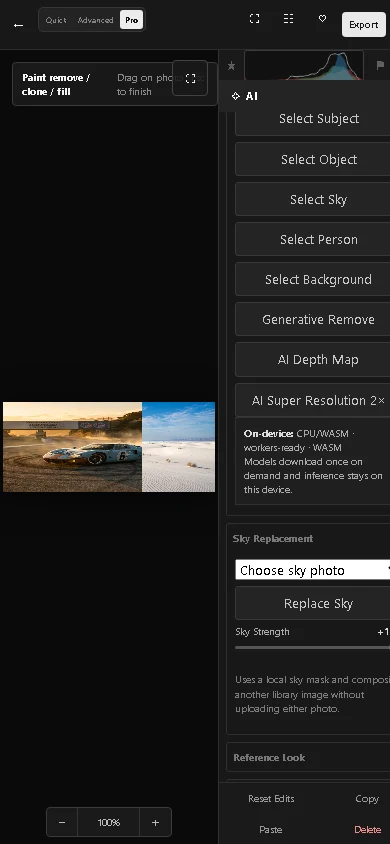
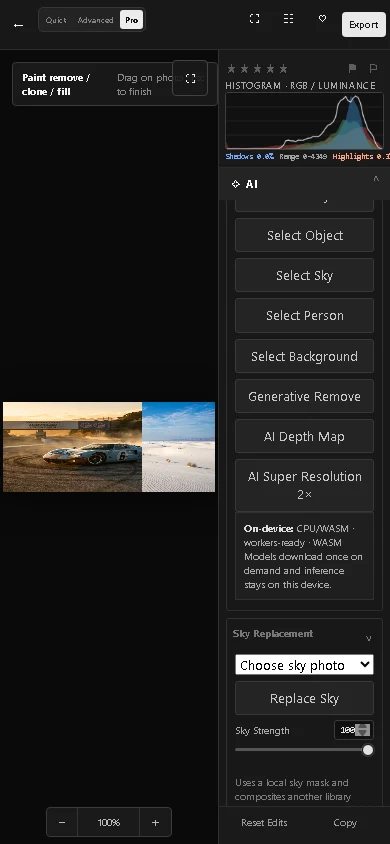
ui: improve histogram and precision controls

diff --git a/editor.js b/editor.js
@@ -29,7 +29,7 @@ function bindAccordions(){$$('.accordion-head').forEach(h=>h.onclick=()=>{const 
 function changedSummary(defs,obj=currentPhoto?.edits||{}){const n=defs.filter(([k])=>obj[k]!==undefined&&obj[k]!==defaultEdits()[k]).length;return n?`${n} adjusted`:''}
 function syncEditorMeta(){if(!currentPhoto)return;$('#editorName').textContent=currentPhoto.name;$('#editorMeta').textContent=`${currentPhoto.width||'—'} × ${currentPhoto.height||'—'} · ${fmtBytes(currentPhoto.size)}`;$('#favoriteBtn').textContent=currentPhoto.favorite?'♥':'♡';updateRating();$('#pickBtn').classList.toggle('on',currentPhoto.flag==='picked');$('#rejectBtn').classList.toggle('rejected',currentPhoto.flag==='rejected');$('#beforeAfterBtn').classList.toggle('active',beforeMode);$('#fullscreenBtn').classList.toggle('active',photoOnly)}
 async function closeEditor(){if(!currentPhoto)return;await put('photos',currentPhoto);exitPhotoOnly(false);paintMode=null;$('#editor').classList.add('hidden');$('#editor').setAttribute('aria-hidden','true');currentPhoto=null;beforeMode=false;await refreshData()}
-function sliderMarkup(defs,obj=currentPhoto.edits,attr='edit'){return defs.map(([key,label,min,max])=>`<div class="control"><label><span>${label}</span><b id="v-${attr}-${key}">${obj[key]>0?'+':''}${obj[key]}</b></label><input type="range" min="${min}" max="${max}" value="${obj[key]}" data-${attr}="${key}"></div>`).join('')}
+function sliderMarkup(defs,obj=currentPhoto.edits,attr='edit'){return defs.map(([key,label,min,max])=>{const raw=Number.isFinite(+obj[key])?+obj[key]:0;const step=(max-min)<=6?'0.01':'1';return`<div class="control"><label><span>${label}</span><span class="control-value"><input class="control-number" type="number" inputmode="decimal" min="${min}" max="${max}" step="${step}" value="${raw}" data-control-number="${attr}|${key}" aria-label="${label} value"><b id="v-${attr}-${key}">${raw>0?'+':''}${raw}</b></span></label><input type="range" min="${min}" max="${max}" step="${step}" value="${raw}" data-${attr}="${key}" aria-label="${label}"></div>`}).join('')}
 function customPresets(){try{return JSON.parse(localStorage.getItem('darkroom-user-presets')||'{}')}catch{return{}}}
 function allPresets(){return{...presets,...customPresets()}}
 function presetMarkup(){const custom=customPresets(),all=allPresets();return`<div class="preset-grid">${Object.entries(all).map(([name,p])=>`<button class="preset-button" data-preset="${esc(name)}"><b>${esc(name)}</b><small>${Object.keys(p).slice(0,2).join(' · ')}${custom[name]?' · Custom':''}</small></button>`).join('')}</div><div class="preset-save"><input id="customPresetName" maxlength="40" placeholder="Preset name"><button id="saveCustomPreset">Save Current</button>${Object.keys(custom).length?'<button id="deleteCustomPreset">Delete Custom…</button>':''}</div>`}
@@ -203,3 +203,9 @@ document.addEventListener('dblclick',e=>{const r=e.target;if(!r.matches?.('input
 drawToneCurve=(function(){return function(){const c=$('#toneCurveCanvas');if(!c||!currentPhoto)return;const x=c.getContext('2d'),w=c.width,h=c.height,p=20,xs=[.03,.25,.5,.75,.97],keys=['curveBlacks','curveShadows','curveMidtones','curveHighlights','curveWhites'],amps=[.16,.22,.24,.22,.16],vals=keys.map(k=>currentPhoto.edits[k]||0);x.clearRect(0,0,w,h);x.fillStyle='#141414';x.fillRect(0,0,w,h);x.strokeStyle='#3c3c3c';x.lineWidth=1;for(let i=0;i<=4;i++){const q=p+(w-p*2)*i/4,r=p+(h-p*2)*i/4;x.beginPath();x.moveTo(q,p);x.lineTo(q,h-p);x.moveTo(p,r);x.lineTo(w-p,r);x.stroke()}x.strokeStyle='#858585';x.beginPath();x.moveTo(p,h-p);x.lineTo(w-p,p);x.stroke();const value=l=>l+vals.reduce((a,n,j)=>a+n/100*amps[j]*Math.max(0,1-Math.abs(l-xs[j])/.28),0);x.strokeStyle='#ba8bff';x.lineWidth=2;x.beginPath();for(let i=0;i<=96;i++){const l=i/96,v=Math.max(0,Math.min(1,value(l))),px=p+l*(w-p*2),py=h-p-v*(h-p*2);i?x.lineTo(px,py):x.moveTo(px,py)}x.stroke();x.fillStyle='#fff';xs.forEach((q,j)=>{const py=h-p-Math.max(0,Math.min(1,value(q)))*(h-p*2);x.beginPath();x.arc(p+q*(w-p*2),py,5,0,Math.PI*2);x.fill()})}})()
 const beginPaintDefault=beginPaint;beginPaint=function(e){if(paintMode==='quick-select'){const p=pointOnCanvas(e);if(p.x<0||p.x>1||p.y<0||p.y>1)return false;captureHistory();const m=newMask('radial','Selected area',{exposure:18});m.cx=p.x;m.cy=p.y;m.rx=.22;m.ry=.22;currentPhoto.localEdits.push(m);activeLocalId=m.id;paintMode=null;renderControls();renderCanvas($('#editorCanvas'));debouncedSave();toast('Area selected — adjust the mask or paint to refine');return true}return beginPaintDefault(e)};
 document.addEventListener('click',e=>{if(e.target.matches?.('#quickMaskSelect')){paintMode='quick-select';$('#photoViewport').classList.add('painting');$('#paintHud').classList.remove('hidden');$('#paintHud b').textContent='Click a region';$('#paintHud span').textContent='Click the photo to create a local mask'}})
+
+// Every slider also accepts a precise numeric value. Event delegation keeps this
+// working when accordion panels are re-rendered after each edit.
+document.addEventListener('input',e=>{const n=e.target.closest?.('.control-number');if(!n)return;const [attr,key]=(n.dataset.controlNumber||'edit|').split('|'),range=document.querySelector(`input[data-${attr}="${key}"]`);if(!range)return;const min=Number(range.min),max=Number(range.max),raw=Number(n.value);if(!Number.isFinite(raw))return;const value=Math.max(min,Math.min(max,raw));n.value=String(value);range.value=String(value);range.dispatchEvent(new Event('input',{bubbles:true}))});
+document.addEventListener('input',e=>{const r=e.target;if(!r.matches?.('input[type="range"][data-edit],input[type="range"][data-local-edit],input[type="range"][data-layer-edit]'))return;const attr=r.dataset.edit!==undefined?'edit':r.dataset.localEdit!==undefined?'local-edit':'layer-edit';const key=r.dataset.edit??r.dataset.localEdit??r.dataset.layerEdit;const n=document.querySelector(`[data-control-number="${attr}|${key}"]`);if(n)n.value=r.value});
+document.addEventListener('change',e=>{const n=e.target.closest?.('.control-number');if(!n)return;const [attr,key]=(n.dataset.controlNumber||'edit|').split('|'),range=document.querySelector(`input[data-${attr}="${key}"]`);if(!range)return;captureHistory();range.dispatchEvent(new Event('change',{bubbles:true}));debouncedSave()});

diff --git a/styles.css b/styles.css
@@ -78,6 +78,18 @@
 .preset-save{display:grid;grid-template-columns:minmax(0,1fr) auto;gap:6px;margin-top:8px}.preset-save input,.metadata-edit input,.metadata-edit textarea{width:100%;background:#121212;border:1px solid #3a3a3a;color:#ddd;border-radius:3px;padding:7px;outline:0}.preset-save button{border:1px solid #393939;background:#252525;color:#ccc;border-radius:3px;padding:6px 8px;cursor:pointer}.preset-save button:last-child{grid-column:1/-1}.metadata-edit{display:grid;gap:8px;margin-top:9px}.metadata-edit label{display:grid;gap:4px;color:#999;font-size:9px}.metadata-edit textarea{min-height:72px;resize:vertical}.image-layer-swatch{background:linear-gradient(135deg,#777,#333)!important}.form-grid input[type=range]{width:100%}
 @media(max-width:760px){:root{--right:clamp(160px,42vw,230px)}.editor-stage canvas{max-width:calc(100vw - var(--right) - 8px)!important}.tool-section-body{padding:7px!important}.editor-footer{padding:0 4px}.editor-footer button{padding:5px 4px}.panel-header{padding:0 6px}}
 @media(max-width:430px){:root{--right:44vw}.editor-stage canvas{max-width:calc(100vw - var(--right) - 6px)!important}}
+
+/* Precise values stay aligned with the range control on every panel. */
+.control-value{display:inline-flex;align-items:center;justify-content:flex-end;gap:5px;min-width:74px}
+.control-number{width:44px;height:20px;padding:1px 3px;border:1px solid #3a3a3a;border-radius:3px;background:#111;color:#e6e6e6;text-align:right;font:500 10px/1 ui-monospace,SFMono-Regular,Consolas,monospace;font-variant-numeric:tabular-nums}
+.control-number:focus-visible{outline:2px solid #b78cff;outline-offset:1px;border-color:#b78cff}
+.control-number::-webkit-inner-spin-button,.control-number::-webkit-outer-spin-button{opacity:.55}
+.control-value b{display:none!important}
+.panel-header .histogram-block{min-width:0;flex:1.35}
+.histogram-block canvas{height:76px!important;min-height:76px;background:#0f0f10!important;border-color:#484848!important}
+.histogram-readout{display:flex;justify-content:space-between;gap:6px;color:#9f9f9f;font:9px/1.2 ui-monospace,SFMono-Regular,Consolas,monospace;font-variant-numeric:tabular-nums;white-space:nowrap}
+.histogram-readout .clip-shadow{color:#73a7ff}.histogram-readout .clip-highlight{color:#ff9d7c}
+@media(max-width:760px){.control-number{width:40px}.control-value{min-width:68px}.histogram-block canvas{height:64px!important;min-height:64px}.histogram-readout{font-size:8px}}
 .before-split-canvas{position:absolute;inset:0;width:100%;height:100%;pointer-events:none;display:none;z-index:2}.before-split-canvas.active{display:block}.before-split-divider{position:absolute;top:0;bottom:0;width:2px;background:rgba(255,255,255,.92);box-shadow:0 0 0 1px rgba(0,0,0,.35);z-index:5;pointer-events:none}.before-split-range{position:absolute;left:50%;bottom:50px;transform:translateX(-50%);z-index:10;width:min(420px,55%);accent-color:#eee}.editor.focus-view .before-split-range,.editor.photo-only .before-split-range{bottom:20px}.editor.focus-view .before-split-divider,.editor.photo-only .before-split-divider{display:block}
 
 /* Compact, scannable section rows. Keep labels and summaries on one line. */
@@ -103,3 +115,14 @@
 .control input[type=range]::-moz-range-thumb,.range-row input[type=range]::-moz-range-thumb,.brush-options input[type=range]::-moz-range-thumb,.form-grid input[type=range]::-moz-range-thumb{width:12px;height:12px;border:1px solid #111;border-radius:50%;background:#e1e1e1;box-shadow:0 0 0 1px rgba(255,255,255,.15)}
 .control input[type=range]:focus-visible,.range-row input[type=range]:focus-visible,.brush-options input[type=range]:focus-visible,.form-grid input[type=range]:focus-visible{outline:1px solid #8d8d8d;outline-offset:3px}
 .photo-card.image-missing::before{content:'Preview unavailable';position:absolute;inset:0;display:grid;place-items:center;color:#888;font-size:11px;background:#202020}.photo-card img.image-missing{display:none}
+
+/* Final rail sizing: keep the histogram readable without overlapping tools. */
+.panel-header{height:auto!important;min-height:122px!important;display:grid!important;grid-template-columns:1fr auto;grid-template-rows:22px auto;align-items:start!important;padding:6px 8px!important;gap:4px 7px}
+.panel-header .rating{grid-column:1;grid-row:1;padding-top:3px;flex:0 0 auto}
+.panel-header .flags{grid-column:2;grid-row:1;padding-top:3px;flex:0 0 auto}
+.panel-header .histogram-block{grid-column:1 / -1;grid-row:2;min-width:0;width:100%}
+.panel-header .histogram-block canvas{display:block!important;width:100%!important;height:76px!important;min-height:76px;background:#0f0f10!important;border:1px solid #484848;border-radius:3px}
+.panel-header .histogram-readout{display:flex!important}
+.editor-panel{grid-template-rows:auto minmax(0,1fr) 0 42px!important}
+@media(max-width:760px){.panel-header{min-height:106px!important;padding:5px 6px!important}.panel-header .histogram-block canvas{height:58px!important;min-height:58px}}
+@media(max-width:760px){.editor-panel{grid-template-rows:auto minmax(0,1fr) 0 38px!important}}

diff --git a/renderer.js b/renderer.js
@@ -22,7 +22,7 @@ function renderCanvas(canvas,maxSize=1400,forceOriginal=false){
   return editorRenderQueue;
 }
 function drawHistogramLegacy(canvas){const hc=$('#histogramCanvas');if(!hc||!canvas.width)return;hc.width=150;hc.height=30;const tmp=document.createElement('canvas');tmp.width=Math.min(256,canvas.width);tmp.height=Math.max(1,Math.round(canvas.height*tmp.width/canvas.width));tmp.getContext('2d').drawImage(canvas,0,0,tmp.width,tmp.height);const data=tmp.getContext('2d').getImageData(0,0,tmp.width,tmp.height).data,h=DarkRoomEngine.histogram(data,48),max=Math.max(...h.r,...h.g,...h.b,...h.l,1),x=hc.getContext('2d');x.clearRect(0,0,hc.width,hc.height);const plot=(arr,stroke,alpha=.7)=>{x.beginPath();x.moveTo(0,hc.height);arr.forEach((v,i)=>x.lineTo(i/(arr.length-1)*hc.width,hc.height-v/max*hc.height));x.strokeStyle=stroke;x.globalAlpha=alpha;x.stroke()};plot(h.r,'#ff7373',.65);plot(h.g,'#7ee787',.65);plot(h.b,'#79a8ff',.65);plot(h.l,'#e6e6e6',.8);x.globalAlpha=1}
-function drawHistogram(canvas){const hc=$('#histogramCanvas');if(!hc||!canvas.width)return;hc.width=180;hc.height=44;const tmp=document.createElement('canvas');tmp.width=Math.min(320,canvas.width);tmp.height=Math.max(1,Math.round(canvas.height*tmp.width/canvas.width));tmp.getContext('2d').drawImage(canvas,0,0,tmp.width,tmp.height);const h=DarkRoomEngine.histogram(tmp.getContext('2d').getImageData(0,0,tmp.width,tmp.height).data,64),max=Math.max(...h.r,...h.g,...h.b,1),x=hc.getContext('2d');x.clearRect(0,0,hc.width,hc.height);for(const [arr,color] of [[h.r,'#ef5350'],[h.g,'#66bb6a'],[h.b,'#42a5f5']]){x.beginPath();x.moveTo(0,hc.height);arr.forEach((v,i)=>x.lineTo(i/(arr.length-1)*hc.width,hc.height-v/max*(hc.height-3)));x.lineTo(hc.width,hc.height);x.closePath();x.fillStyle=color;x.globalAlpha=.42;x.fill()}x.globalAlpha=1;x.strokeStyle='#ddd';x.lineWidth=1;x.beginPath();h.l.forEach((v,i)=>{const q=i/(h.l.length-1)*hc.width,y=hc.height-v/Math.max(...h.l,1)*(hc.height-3);i?x.lineTo(q,y):x.moveTo(q,y)});x.stroke()}
+function drawHistogram(canvas){const hc=$('#histogramCanvas');if(!hc||!canvas.width)return;hc.width=220;hc.height=76;const tmp=document.createElement('canvas');tmp.width=Math.min(420,canvas.width);tmp.height=Math.max(1,Math.round(canvas.height*tmp.width/canvas.width));const tc=tmp.getContext('2d');tc.drawImage(canvas,0,0,tmp.width,tmp.height);const h=DarkRoomEngine.histogram(tc.getImageData(0,0,tmp.width,tmp.height).data,64),max=Math.max(...h.r,...h.g,...h.b,1),x=hc.getContext('2d');x.clearRect(0,0,hc.width,hc.height);x.fillStyle='#0f0f10';x.fillRect(0,0,hc.width,hc.height);x.strokeStyle='#292929';x.lineWidth=1;for(let i=1;i<4;i++){const y=i/4*hc.height;x.beginPath();x.moveTo(0,y);x.lineTo(hc.width,y);x.stroke()}for(const [arr,color] of [[h.r,'#ef5350'],[h.g,'#66bb6a'],[h.b,'#42a5f5']]){x.beginPath();x.moveTo(0,hc.height);arr.forEach((v,i)=>x.lineTo(i/(arr.length-1)*hc.width,hc.height-v/max*(hc.height-4)));x.lineTo(hc.width,hc.height);x.closePath();x.fillStyle=color;x.globalAlpha=.45;x.fill()}x.globalAlpha=1;x.strokeStyle='#f2f2f2';x.lineWidth=1.4;x.beginPath();const lmax=Math.max(...h.l,1);h.l.forEach((v,i)=>{const q=i/(h.l.length-1)*hc.width,y=hc.height-v/lmax*(hc.height-4);i?x.lineTo(q,y):x.moveTo(q,y)});x.stroke();const total=Math.max(1,h.l.reduce((a,v)=>a+v,0)),sh=h.l.slice(0,3).reduce((a,v)=>a+v,0)/total*100,hi=h.l.slice(-3).reduce((a,v)=>a+v,0)/total*100,readout=$('#histogramReadout');if(readout){const cells=readout.querySelectorAll('span');if(cells[0])cells[0].textContent=`Shadows ${sh.toFixed(1)}%`;if(cells[1])cells[1].textContent=`Range ${Math.min(...h.l)}–${Math.max(...h.l)}`;if(cells[2])cells[2].textContent=`Highlights ${hi.toFixed(1)}%`}}
 
 function renderDiagnosticOverlay(){const overlay=$('#diagnosticOverlay'),base=$('#editorCanvas');if(!overlay||!base?.width)return;overlay.width=base.width;overlay.height=base.height;const x=overlay.getContext('2d'),mode=diagnosticOverlay||'none';x.clearRect(0,0,overlay.width,overlay.height);if(mode==='none'||photoOnly)return;const w=Math.min(420,base.width),h=Math.max(2,Math.round(base.height*w/base.width)),c=document.createElement('canvas');c.width=w;c.height=h;const cx=c.getContext('2d');cx.drawImage(base,0,0,w,h);const src=cx.getImageData(0,0,w,h).data,img=cx.createImageData(w,h),lum=(xx,yy)=>{const i=(yy*w+xx)*4;return .2126*src[i]+.7152*src[i+1]+.0722*src[i+2]};for(let yy=1;yy<h-1;yy++)for(let xx=1;xx<w-1;xx++){const i=(yy*w+xx)*4,l=lum(xx,yy);let a=0,r=0,g=0,b=0;if(mode==='highlights'&&l>248){r=255;g=55;b=55;a=175}else if(mode==='shadows'&&l<7){r=55;g=105;b=255;a=175}else if(mode==='focus'){const gx=Math.abs(lum(xx+1,yy)-lum(xx-1,yy)),gy=Math.abs(lum(xx,yy+1)-lum(xx,yy-1)),edge=gx+gy;if(edge>62){r=70;g=255;b=130;a=Math.min(220,80+edge)}}img.data[i]=r;img.data[i+1]=g;img.data[i+2]=b;img.data[i+3]=a}cx.putImageData(img,0,0);x.drawImage(c,0,0,overlay.width,overlay.height)}
 

diff --git a/core.js b/core.js
@@ -65,5 +65,5 @@ function toast(msg){const t=$('#toast');if(!t)return;t.textContent=msg;t.classLi
 function blobUrl(p,thumb=false){if(thumb&&p.thumbnailBlob){if(!p._thumbUrl)p._thumbUrl=URL.createObjectURL(p.thumbnailBlob);return p._thumbUrl}if(!p._url)p._url=URL.createObjectURL(p.blob);return p._url}
 async function makeThumbnail(blob,max=520){try{const image=await decodeImageElement(blob),scale=Math.min(1,max/Math.max(image.naturalWidth,image.naturalHeight)),c=document.createElement('canvas');c.width=Math.max(1,Math.round(image.naturalWidth*scale));c.height=Math.max(1,Math.round(image.naturalHeight*scale));const x=c.getContext('2d');x.imageSmoothingEnabled=true;x.imageSmoothingQuality='high';x.drawImage(image,0,0,c.width,c.height);releaseDecodedImage(image);return await new Promise(r=>c.toBlob(r,'image/jpeg',.82))}catch{return null}}
 function imageDimensions(blob){return new Promise((res,rej)=>{const i=new Image(),u=URL.createObjectURL(blob);i.onload=()=>{res({width:i.naturalWidth,height:i.naturalHeight});URL.revokeObjectURL(u)};i.onerror=e=>{URL.revokeObjectURL(u);rej(e)};i.src=u})}
-async function importFiles(files){const candidates=[...files].filter(f=>f.type.startsWith('image/')||DarkRoomRAW?.isRaw?.(f));if(!candidates.length)return toast('No supported images selected');toast(`Importing ${candidates.length} photo${candidates.length>1?'s':''}…`);let imported=0;for(const f of candidates){try{let blob=f,width=0,height=0,raw=false,rawMeta=null,originalBlob=null;if(DarkRoomRAW?.isRaw?.(f)){toast(`Decoding RAW: ${f.name}`);const d=await DarkRoomRAW.decode(f);blob=d.blob;width=d.width;height=d.height;raw=true;rawMeta=d.metadata;originalBlob=f}else{const d=await imageDimensions(f);width=d.width;height=d.height}const thumbnailBlob=await makeThumbnail(blob);await put('photos',{id:uid(),name:f.name,type:f.type||blob.type||'image/raw',size:f.size,created:Date.now()+imported,modified:f.lastModified||Date.now(),width,height,blob,thumbnailBlob,originalBlob,raw,rawMeta,edits:defaultEdits(),adjustmentLayers:[],imageLayers:[],localEdits:[],healOps:[],caption:'',keywords:[],favorite:false,rating:0,flag:'none',albumIds:[]});imported++}catch(e){console.error('Import failed',f.name,e);toast(`Could not import ${f.name}`)}}await refreshData();toast(`${imported} photo${imported===1?'':'s'} added`)}
+async function importFiles(files){const imageExts=new Set(['jpg','jpeg','png','webp','gif','bmp','avif','svg']);const candidates=[...files].filter(f=>{const type=typeof f.type==='string'?f.type.toLowerCase():'';const ext=String(f.name||'').toLowerCase().split('.').pop();return type.startsWith('image/')||imageExts.has(ext)||DarkRoomRAW?.isRaw?.(f)});if(!candidates.length)return toast('No supported images selected (JPG, PNG, WebP, AVIF, or RAW)');toast(`Importing ${candidates.length} photo${candidates.length>1?'s':''}…`);let imported=0;for(const f of candidates){try{let blob=f,width=0,height=0,raw=false,rawMeta=null,originalBlob=null;if(DarkRoomRAW?.isRaw?.(f)){toast(`Decoding RAW: ${f.name}`);const d=await DarkRoomRAW.decode(f);blob=d.blob;width=d.width;height=d.height;raw=true;rawMeta=d.metadata;originalBlob=f}else{const d=await imageDimensions(f);width=d.width;height=d.height}const thumbnailBlob=await makeThumbnail(blob);await put('photos',{id:uid(),name:f.name,type:f.type||blob.type||'image/raw',size:f.size,created:Date.now()+imported,modified:f.lastModified||Date.now(),width,height,blob,thumbnailBlob,originalBlob,raw,rawMeta,edits:defaultEdits(),adjustmentLayers:[],imageLayers:[],localEdits:[],healOps:[],caption:'',keywords:[],favorite:false,rating:0,flag:'none',albumIds:[]});imported++}catch(e){console.error('Import failed',f.name,e);toast(`Could not import ${f.name}`)}}await refreshData();toast(`${imported} photo${imported===1?'':'s'} added`)}
 async function loadDemoPhotos(){const assets=['mountain-sunset.jpg','white-dunes.jpg','race-car.jpg'];toast('Loading local sample set…');try{const files=[];for(const name of assets){const response=await fetch('./docs/assets/examples/'+name);if(!response.ok)throw new Error('Could not load '+name);files.push(new File([await response.blob()],name,{type:'image/jpeg'}))}await importFiles(files)}catch(error){console.error('Demo import failed',error);toast('Sample set unavailable — add photos from your device')}}

diff --git a/index.html b/index.html
@@ -129,7 +129,7 @@
     <button data-route="storage"><span>◫</span><small>Storage</small></button>
   </nav>
 
-  <input id="fileInput" type="file" accept="image/*" multiple hidden />
+  <input id="fileInput" type="file" accept="image/*,.dng,.cr2,.cr3,.nef,.nrw,.arw,.srf,.sr2,.raf,.orf,.rw2,.pef,.rwl,.3fr,.fff,.iiq,.mos,.mrw,.x3f" multiple hidden />
 
   <div id="editor" class="editor hidden" aria-hidden="true">
     <header class="editor-top">
@@ -153,7 +153,7 @@
     <aside class="editor-panel" aria-label="Fixed editing parameters">
       <div class="panel-header">
         <div class="rating" id="ratingButtons"><button data-rate="1">★</button><button data-rate="2">★</button><button data-rate="3">★</button><button data-rate="4">★</button><button data-rate="5">★</button></div>
-        <div class="histogram-block"><span>Histogram</span><canvas id="histogramCanvas" width="180" height="44" aria-label="RGB histogram"></canvas></div><div class="flags"><button id="pickBtn" title="Pick">⚑</button><button id="rejectBtn" title="Reject">⚐</button></div>
+        <div class="histogram-block"><span>Histogram · RGB / luminance</span><canvas id="histogramCanvas" width="220" height="76" aria-label="RGB histogram"></canvas><div id="histogramReadout" class="histogram-readout" aria-live="polite"><span class="clip-shadow">Shadows 0%</span><span>Range 0–100%</span><span class="clip-highlight">Highlights 0%</span></div></div><div class="flags"><button id="pickBtn" title="Pick">⚑</button><button id="rejectBtn" title="Reject">⚐</button></div>
       </div>
       <div class="tool-tabs context-tools" id="toolTabs" aria-label="Editing categories">
         <button data-panel="edit" data-tier="quick" class="active"><span>☼</span><small>Edit</small></button>

diff --git a/sw.js b/sw.js
@@ -1,4 +1,4 @@
-const CACHE='darkroom-v13';
+const CACHE='darkroom-v14';
 const ASSETS=['./','./index.html','./styles.css','./engine-core.js','./ai-runtime.js','./generative-runtime.js','./raw-runtime.js','./core.js','./library.js','./renderer.js','./editor.js','./pro-tools.js','./app.js','./manifest.webmanifest','./icon.svg','./docs/assets/examples/mountain-sunset.jpg','./docs/assets/examples/white-dunes.jpg','./docs/assets/examples/race-car.jpg'];
 self.addEventListener('install',e=>e.waitUntil(caches.open(CACHE).then(c=>Promise.all(ASSETS.map(a=>c.add(a).catch(()=>null)))).then(()=>self.skipWaiting())));
 self.addEventListener('activate',e=>e.waitUntil(Promise.all([caches.keys().then(keys=>Promise.all(keys.filter(k=>k!==CACHE).map(k=>caches.delete(k)))),self.clients.claim()])));

diff --git a/tests/browser_ux.py b/tests/browser_ux.py
@@ -75,6 +75,9 @@ def main():
             page.click(f'[data-mode="{mode}"]');counts.append(page.locator('.tool-section').count())
         assert counts[0] <= counts[1] <= counts[2]
         page.click('[data-mode="advanced"]');head=page.locator('.accordion-head').first;section=head.locator('..');before='collapsed' in (section.get_attribute('class') or '');head.click();after='collapsed' in (section.get_attribute('class') or '');assert before != after
+        if 'open' not in (page.locator('[data-tool-section="edit"]').get_attribute('class') or ''): page.click('[data-tool-toggle="edit"]')
+        if not page.locator('[data-section="light"] .accordion-body').is_visible(): page.locator('[data-section="light"] .accordion-head').click()
+        number=page.locator('[data-control-number="edit|exposure"]');number.fill('37');assert page.evaluate("currentPhoto.edits.exposure===37");number.fill('0');assert page.evaluate("currentPhoto.edits.exposure===0")
         if 'open' not in (page.locator('[data-tool-section="transform"]').get_attribute('class') or ''): page.click('[data-tool-toggle="transform"]')
         if not page.locator('#autoCrop').is_visible(): page.locator('[data-section="crop"] .accordion-head').click()
         page.click('#autoCrop');page.wait_for_timeout(100);assert page.evaluate("currentPhoto.edits.cropZoom>=100 && currentPhoto.edits.cropX>=0 && currentPhoto.edits.cropX<=100")

diff --git a/README.md b/README.md
@@ -65,6 +65,7 @@ Each section in the right rail is independently collapsible. Section state is re
 ## Library and organization
 
 - Multi-photo device import.
+- JPG/JPEG, PNG, WebP, GIF, BMP, AVIF, SVG, and detected RAW extensions; the picker also accepts files whose MIME type is missing but whose extension is known.
 - Thumbnail-backed library rendering for responsive large collections.
 - Local IndexedDB persistence.
 - Browser-storage persistence request where supported.
@@ -102,6 +103,7 @@ Each section in the right rail is independently collapsible. Section state is re
 ### Curves and color
 
 - Tone-curve processing
+- Direct curve-point dragging keeps the five tonal controls synchronized; every range control also accepts an exact numeric value and double-click reset.
 - RGB/HSL-aware pixel transformations
 - Hue, Saturation, and Luminance controls
 - Color grading
@@ -304,6 +306,7 @@ Derived photos are written back into the local library with source metadata.
 Pro mode includes:
 
 - RGB/luminance histogram
+- Large live RGB histogram with luminance outline and shadow/highlight clipping percentages.
 - Highlight clipping overlay
 - Shadow clipping overlay
 - Focus/edge diagnostic overlay
